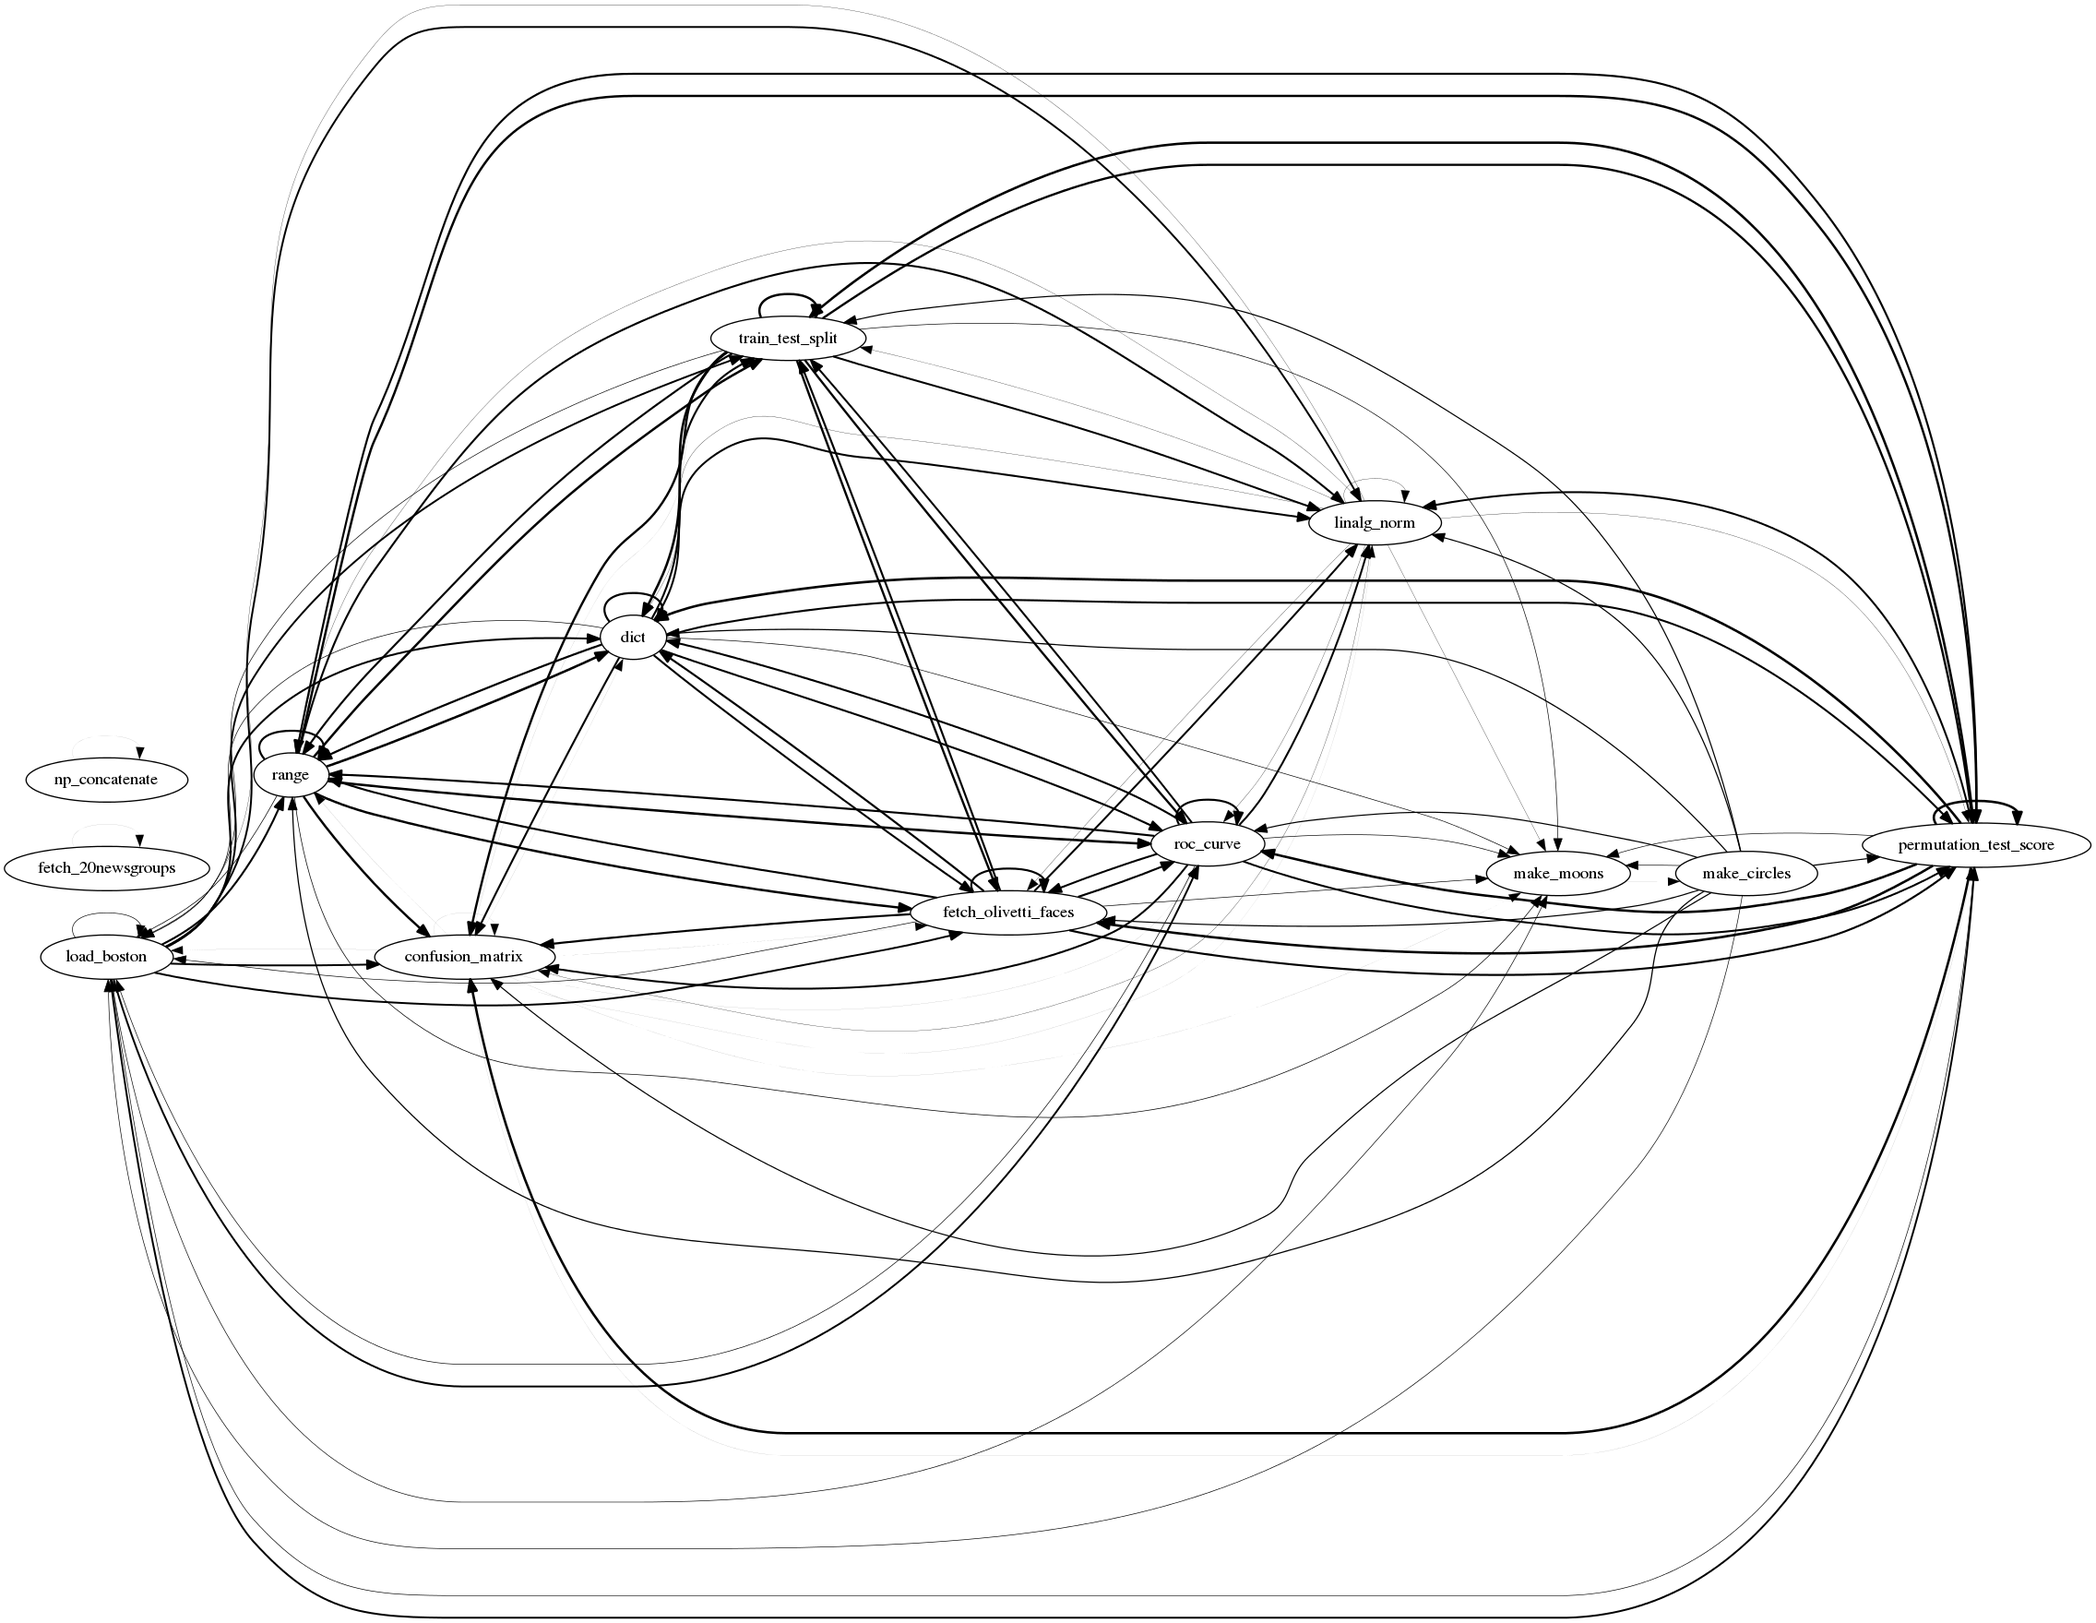
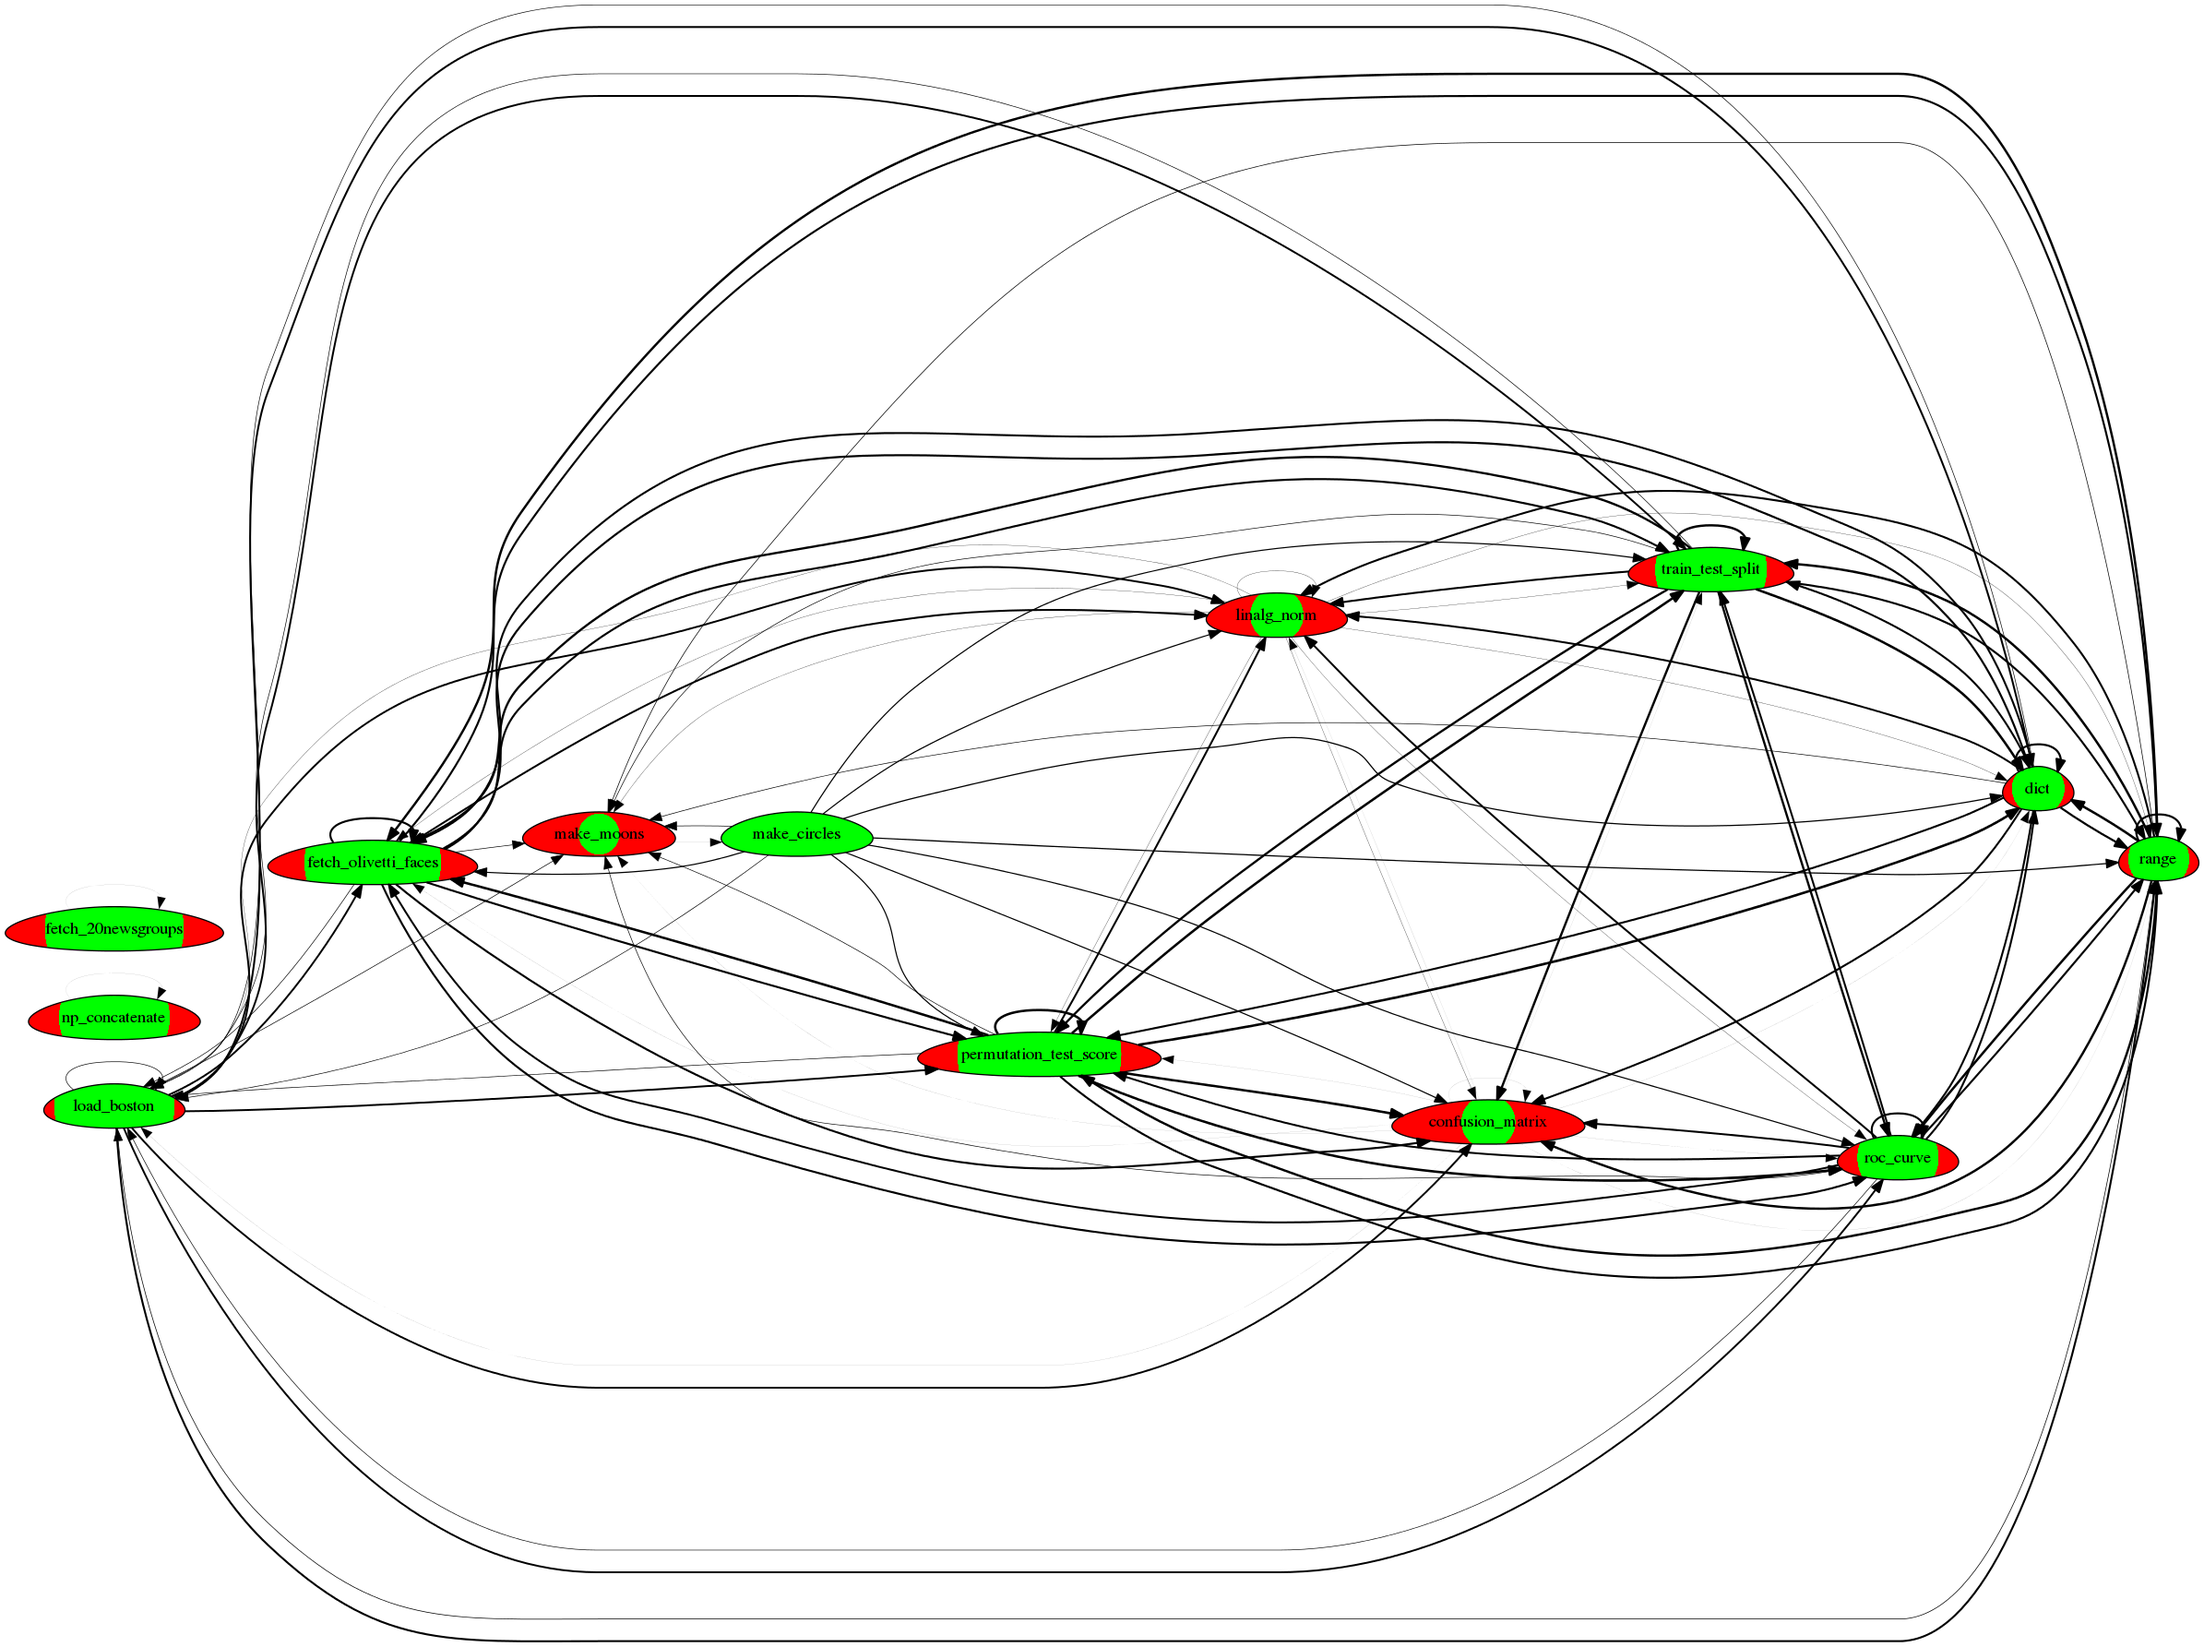
adding colors

diff --git a/Misc/LN/findingfuncs/process.py b/Misc/LN/findingfuncs/process.py
@@ -11,10 +11,26 @@ def intermediate_dot(fil):
           raw_data[key]=1
   return raw_data
 
-def generate_new_dot_file(dictionary,style):
+#TODO: Need to remove the dictionary. It's redundant
+def generate_new_dot_file(dot_file,dictionary,style,colors=False):
+  print dot_file
+  if colors == True:
+    fil = open(dot_file,"r")
+    lines = fil.readlines()
+    fil.close()
   f = open('new_output.dot','w')
   f.write('digraph G {\n')
   f.write('rankdir=LR\n')
+  if colors == True:
+    print "COLORS introduced"
+    color_data = color_processing(lines)
+    print color_data
+    for key in color_data.keys():
+      incmng = color_data[key]/10000
+      outgng = color_data[key]%10000
+      ratio = (incmng + outgng)**-1 * incmng
+      strg = key + "[label=\"%s\", shape=\"egg\" style=\"radial\" fillcolor=\"green;%f:red\"]"%(key,ratio)
+      f.write(strg)
   import operator
   max_val = max(dictionary.iteritems(), key=operator.itemgetter(1))[1]
   for key in dictionary.keys():
@@ -27,14 +43,36 @@ def generate_new_dot_file(dictionary,style):
   f.write('}\n')
   f.close()
 
-def dot_processing(dot_file,style=""):
+def dot_processing(dot_file,style="",color=False):
   inter_data = intermediate_dot(dot_file)
-  generate_new_dot_file(inter_data,style)
+  generate_new_dot_file(dot_file,inter_data,style,color)
+
+def color_processing(lines):
+  def remove_penwidth(line):
+    '''removes pen width from the line'''
+    spos = line.index('[')
+    epos = line.index(']')
+    return line[:spos]
+  color_data = {}
+  #with open(dot_file) as f:
+  for line in lines:
+      if "->" in line: 
+        key = line.split(";")[0]
+        if '[' in key: key = remove_penwidth(key)
+        to = key.split("->")
+        if len(to) > 2: print "complain" #potential bug: there can be lines with multuple '->' another bug!!
+        if to[0] in color_data: color_data[to[0]]+=10000
+        else: color_data[to[0]]=10000
+        if to[1] in color_data: color_data[to[1]]+=1
+        else: color_data[to[1]]=1
+        
+  return color_data
 
 if __name__ == '__main__':
   inter_data = intermediate_dot(dot_file)
   generate_new_dot_file(inter_data)
   import os
   os.system('dot -Tpng new_output.dot > new_output.png')
+  #color_processing("new_output.dot")
 
 

diff --git a/Misc/LN/findingfuncs/get_call_sequence.py b/Misc/LN/findingfuncs/get_call_sequence.py
@@ -320,7 +320,7 @@ if __name__ == '__main__':
   print "Second Pass: ", count_line("new_output.dot")
   tfidf_list = generate_tfidf_list("library_tfidf.txt")
   wrapper_remove_node("new_output.dot",tfidf_list)
-  dot_processing("new_output.dot","penwidth")
+  dot_processing("new_output.dot","penwidth",True)
   print "Third Pass: ", count_line("new_output.dot")
   import os
   os.system('dot -Tpng new_output.dot > new_output.png')
